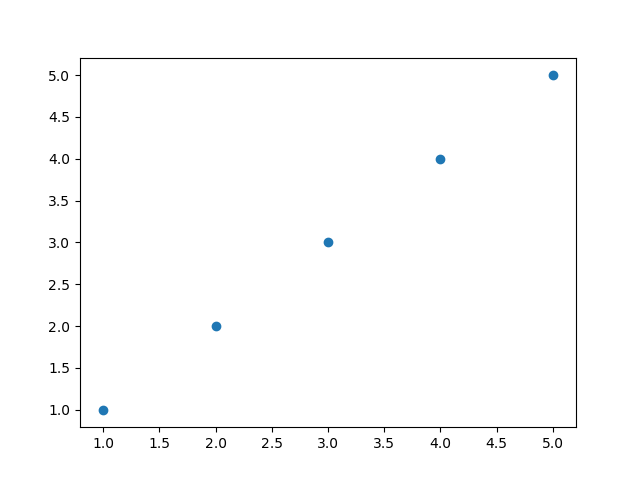
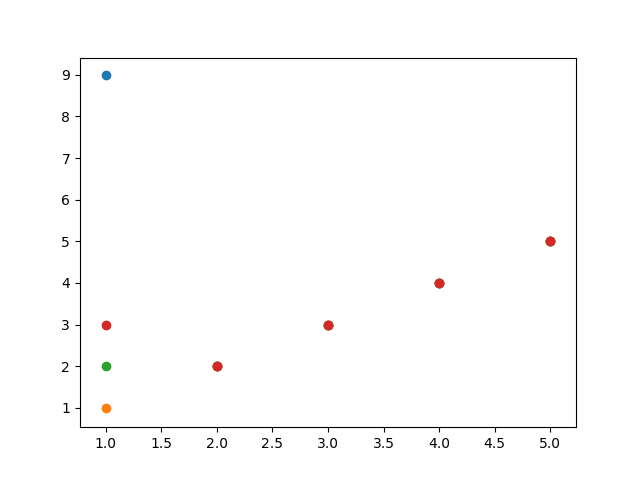
Fermentation graph updates image how it's supposed to. the debugging bits are bugging but they show what they need to.

diff --git a/resources/fermentation.html b/resources/fermentation.html
@@ -12,6 +12,6 @@
 		</p>
 
 		<title>Fermentation Temperature Graph</title>
-		<p><img src="static/images/graph.png" /></p>
+		<p><img src="static/images/graph.png?dummy=9125615431" /></p>
 	</body>
 </html>

diff --git a/resources/temp_graph.py b/resources/temp_graph.py
@@ -4,8 +4,18 @@ import pylab
 matplotlib.pyplot.switch_backend('Agg')
 print(matplotlib.pyplot.get_backend())
 
-x = [1, 2, 3, 4, 5]
-y = [1, 2, 3, 4, 5]
+class Graph(object):
 
-matplotlib.pyplot.scatter(x, y)
-pylab.savefig('static/images/graph.png')
+	@staticmethod
+	def generateGraph():
+		file = open("resources/number.txt", "r+")
+		try:
+			number = int(file.read(1))
+		except:
+			number = 1
+		file.close()
+		print("Trying to graph: " + str(number))
+		x = [1, 2, 3, 4, 5]
+		y = [number, 2, 3, 4, 5]
+		matplotlib.pyplot.scatter(x, y)
+		pylab.savefig('static/images/graph.png')

diff --git a/main.py b/main.py
@@ -1,4 +1,5 @@
 import web
+from resources import temp_graph
 
 urls = (
 	'/', 'home',
@@ -28,6 +29,16 @@ class calendar:
 
 class fermentation:
 	def GET(self):
+		file = open("resources/number.txt", "r+")
+		try:
+			number = int(file.read(1))
+		except:
+			number = 1
+		print("Trying to write number: " + str(number))
+		file.seek(0)
+		file.write(str(number+1))
+		file.close()
+		temp_graph.Graph.generateGraph()
 		return render.fermentation()
 
 if __name__ == "__main__":

diff --git a/resources/readnum.py b/resources/readnum.py
@@ -1,0 +1,6 @@
+file = open("number.txt", "w+")
+
+print(file.read(1))
+
+file.close()
+
